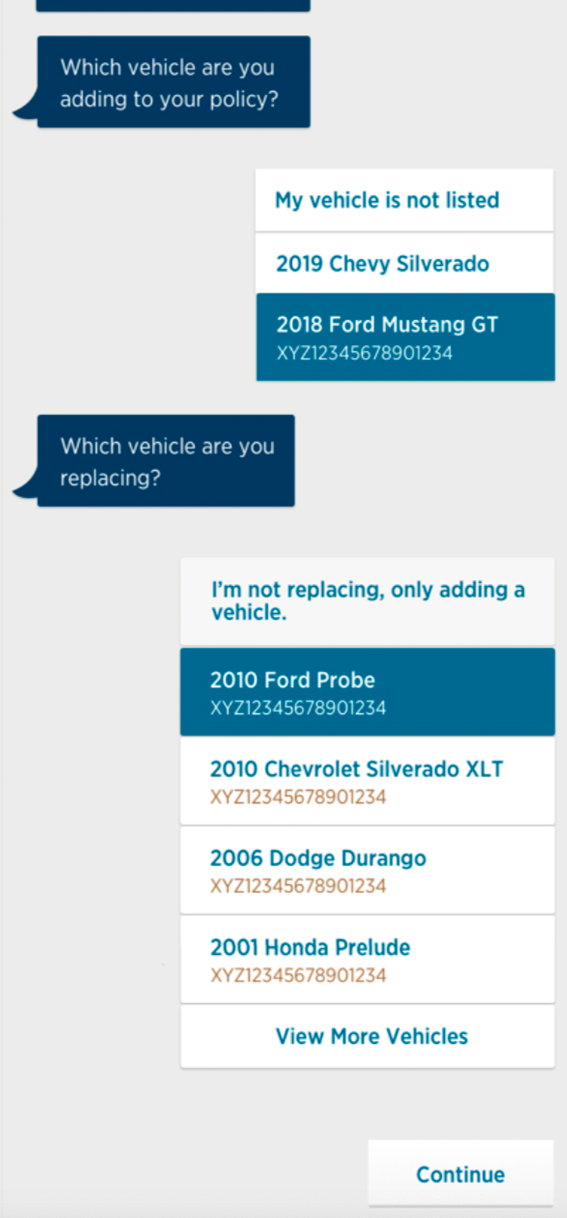
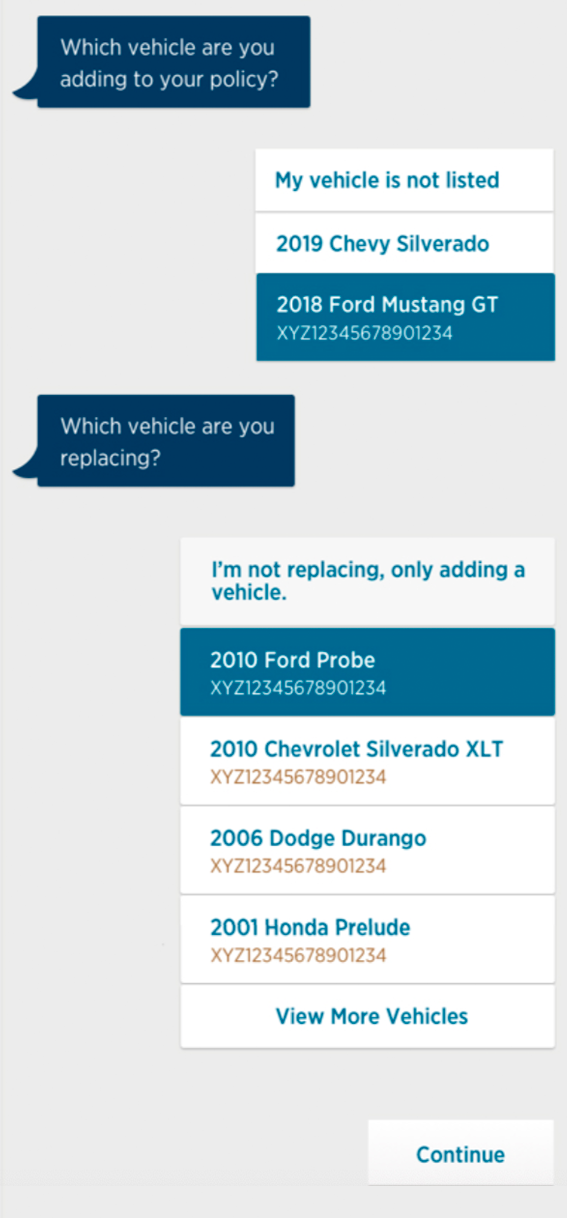
add sub updates

Changed region(s): [[0.03, 0.0, 0.9894, 0.8736], [0.7196, 0.936, 0.8995, 0.9984]]

diff --git a/new-styles.css b/new-styles.css
@@ -491,8 +491,8 @@ button.bg-primary:focus {
 }
 
 .addsub-container .masthead {
-    height: 650px;
-    padding-top: calc(3rem + 74px);
+    height: 624px;
+    padding-top: calc(2rem + 74px);
 }
 
 .addsub-container .addsub-pic-intro {
@@ -572,7 +572,7 @@ button.bg-primary:focus {
     position: absolute;
     top: 0px;
     right: 20px;
-    top: 260px;
+    top: 256px;
     width: 180px;
     animation-name: animateredcar;
     animation-duration: 4s;
@@ -652,6 +652,10 @@ button.bg-primary:focus {
 @media (min-width: 576px) {
     .portfolio h3 {
         font-size: 1.25em;
+    }
+    .addsub-container .masthead {
+        height: 650px;
+        padding-top: calc(3rem + 74px);
     }
     .portfolio .air-pic,
     .air-container .air-pic {
